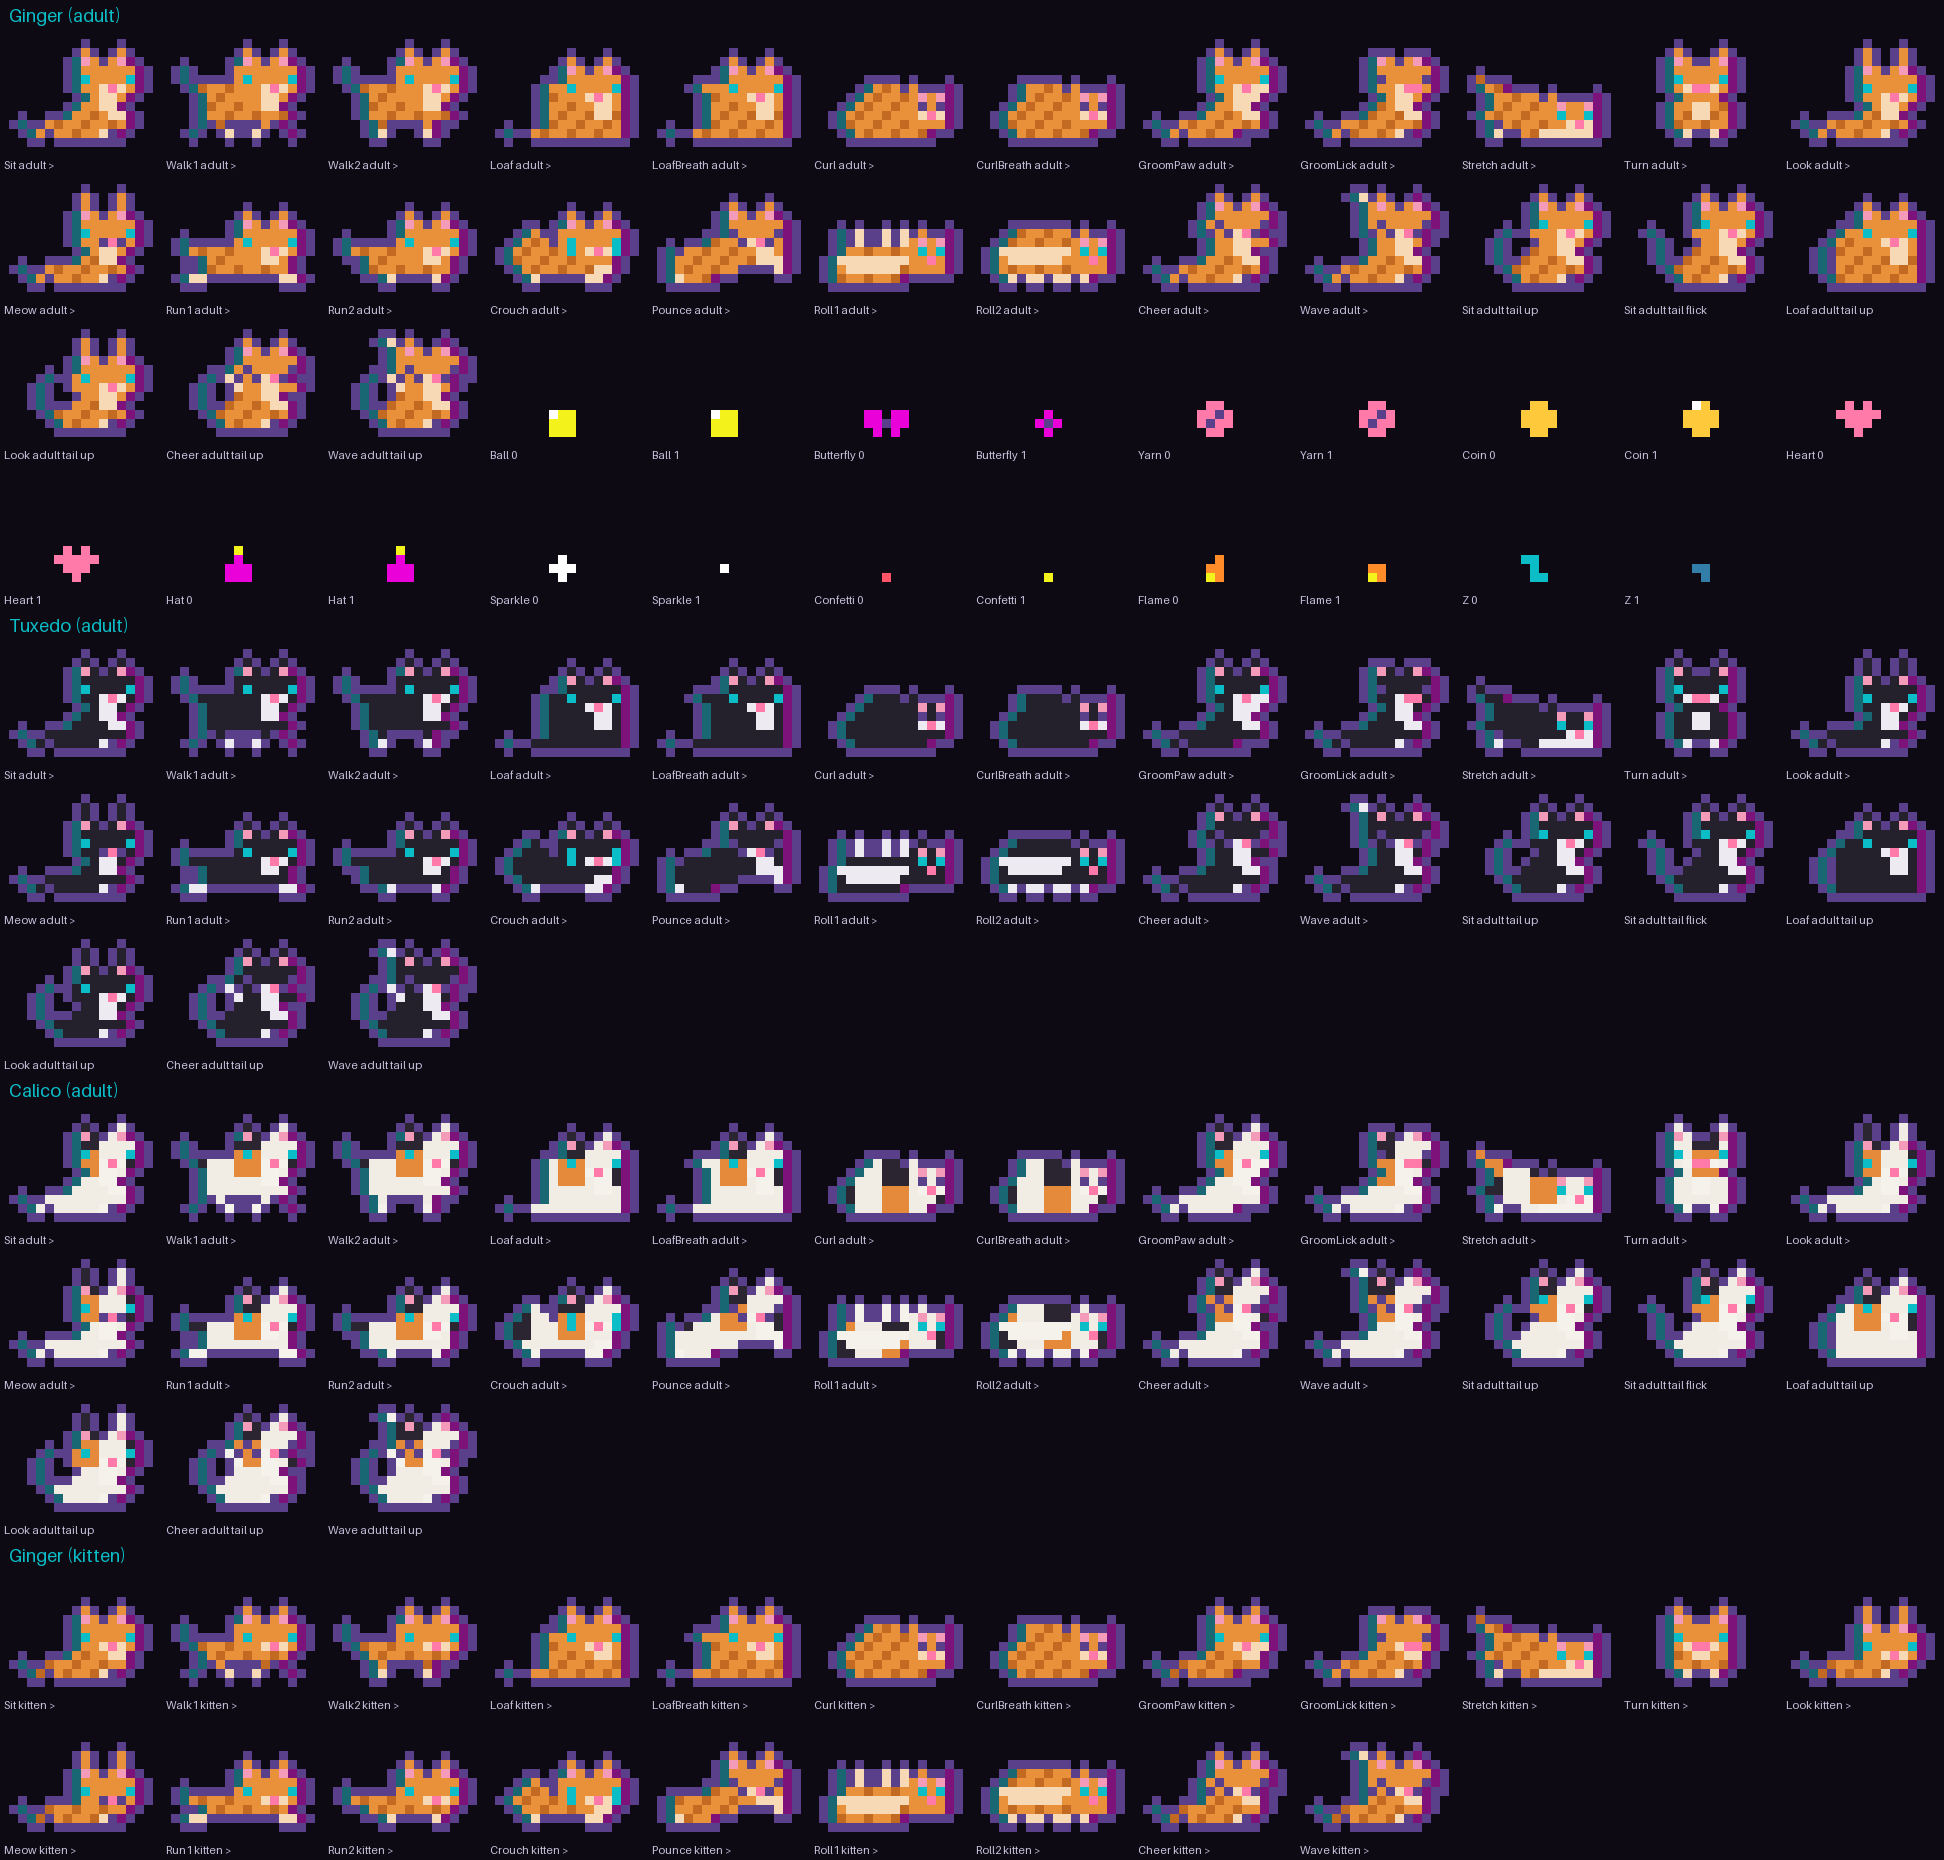
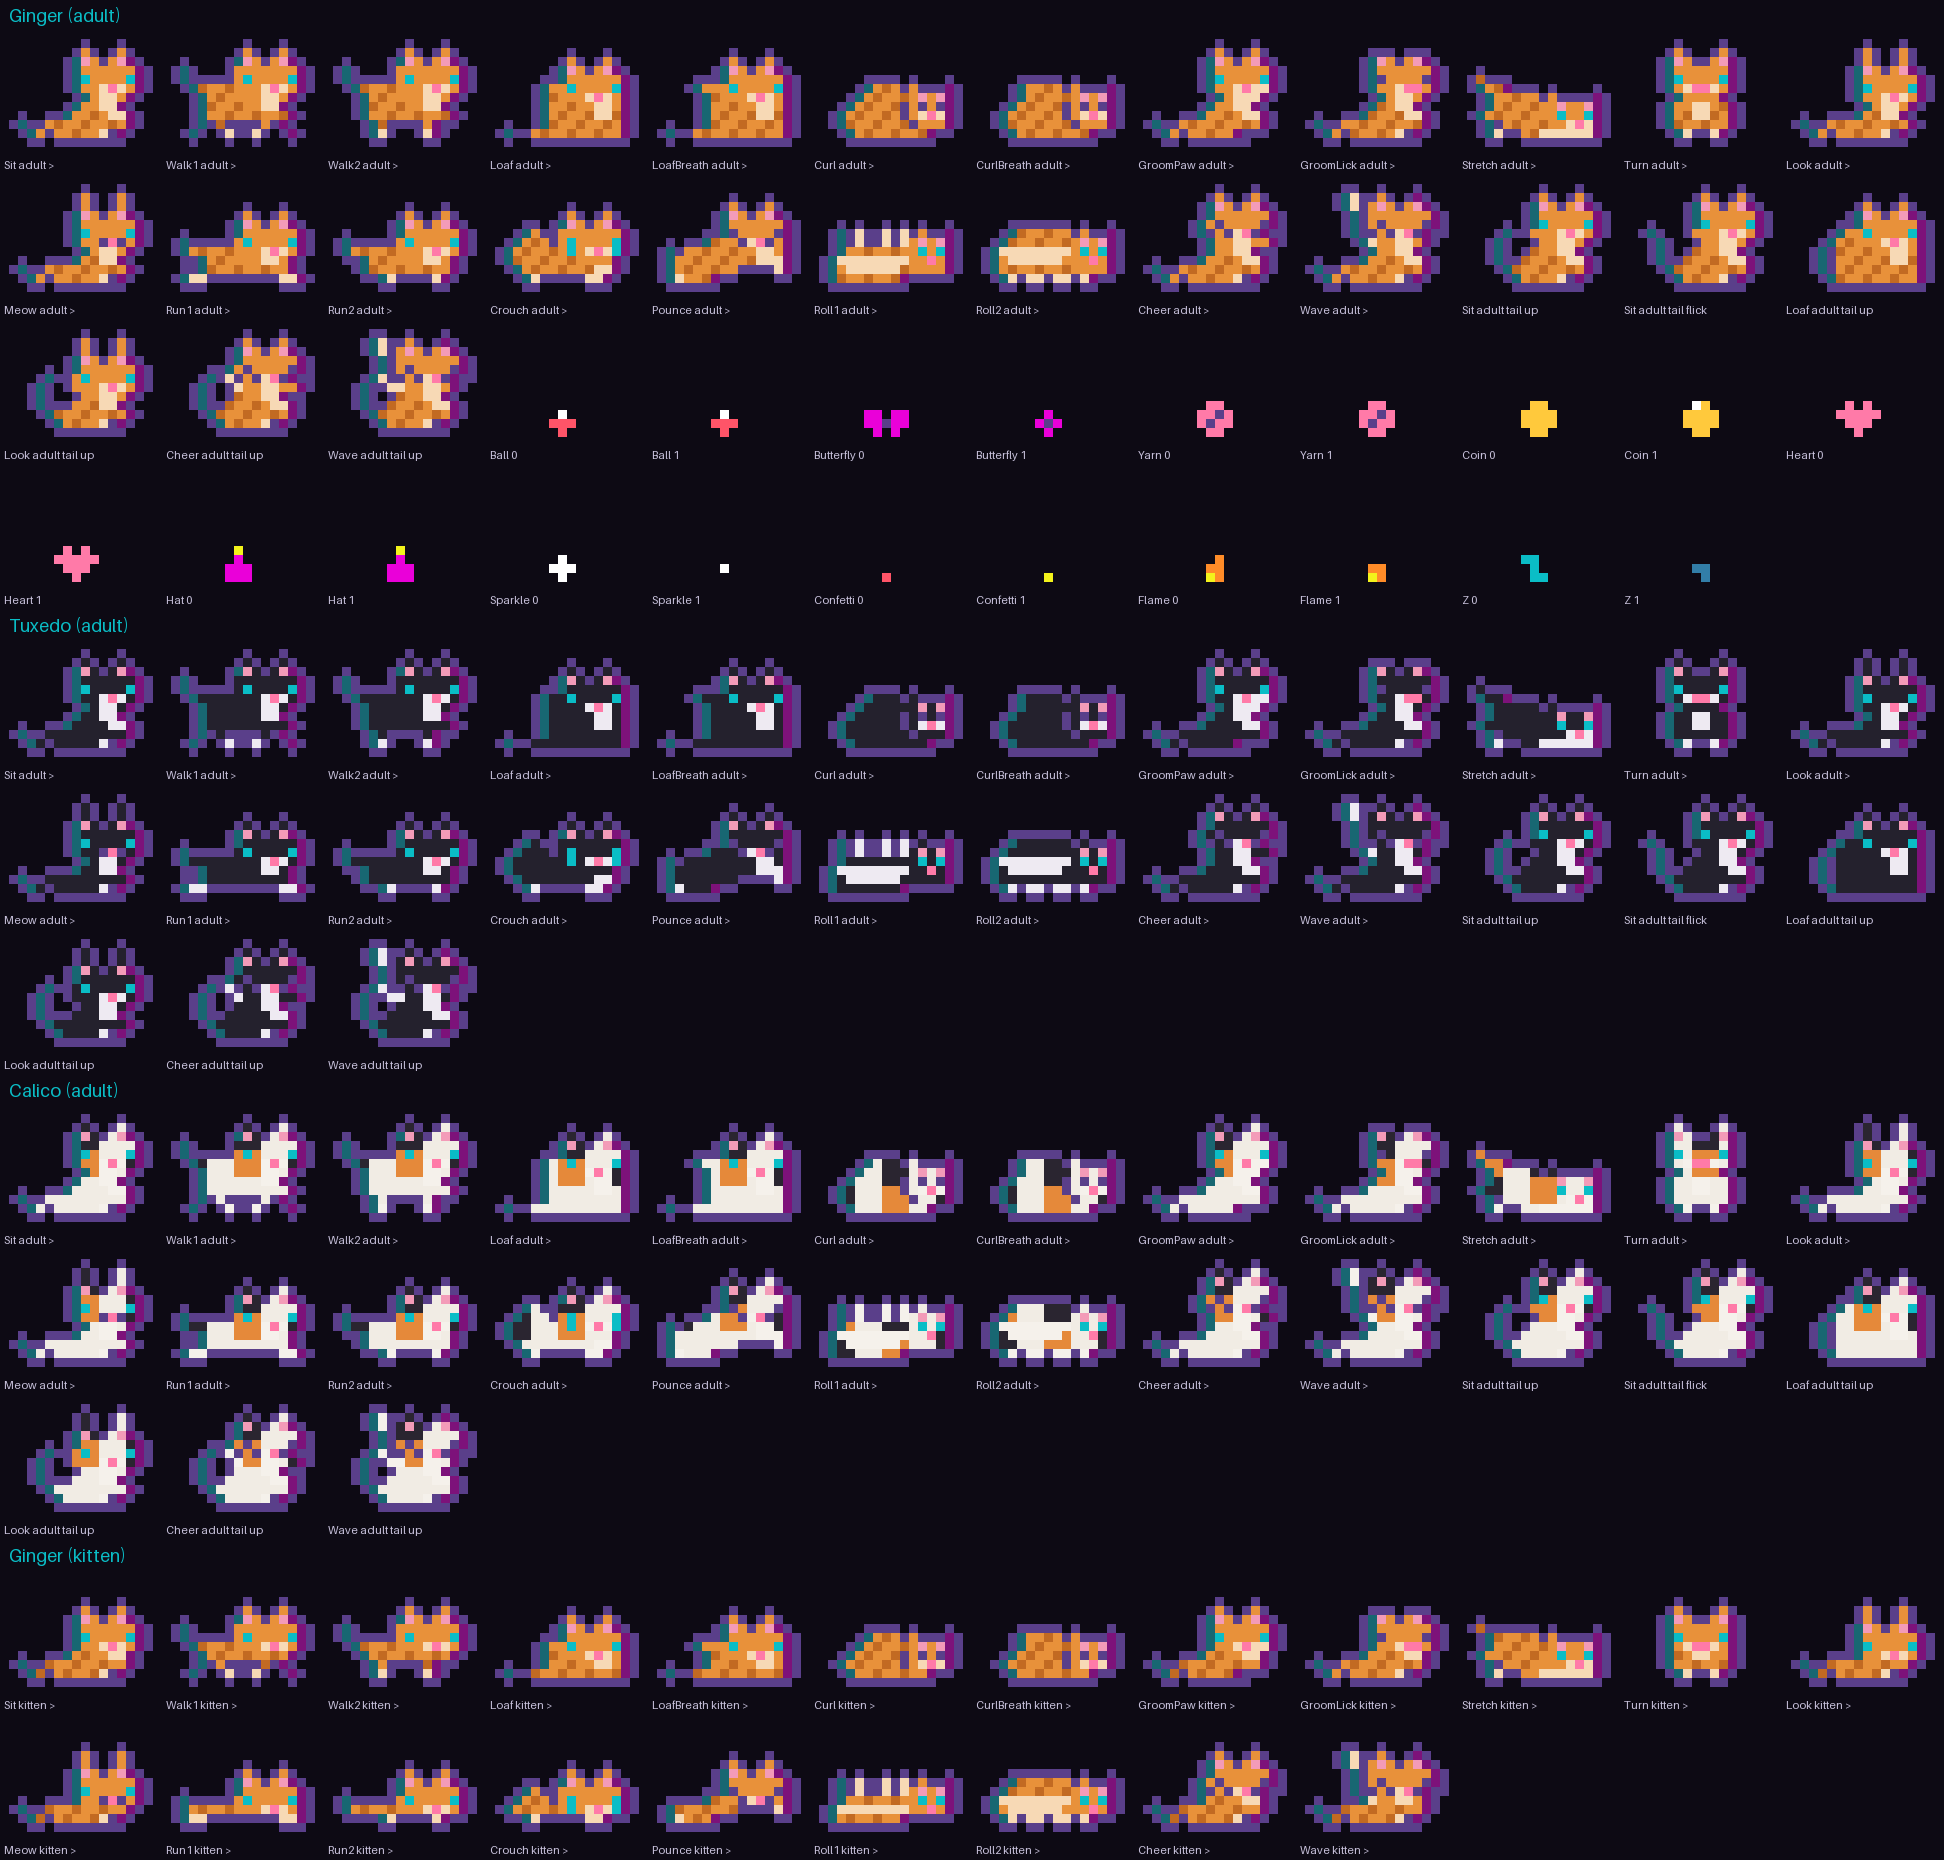
fix: clearer wave, round ball, curl head, kitten sizes

diff --git a/rust/src/px/art.rs b/rust/src/px/art.rs
@@ -153,7 +153,7 @@ const LOAF: [&str; 9] = [
     "....bbhhhlnlhh",
     "....bbbbhhllhh",
     "-....bbbbbbllbb",
-    "....bbbbbbbbbb",
+    "-....bbbbbbbbbb",
     "....*bbbbbbbbb",
 ];
 
@@ -166,7 +166,7 @@ const LOAF_BREATH: [&str; 9] = [
     "....bbhhhlnlhh",
     "....bbbbhhllhh",
     "-....bbbbbbllbb",
-    "....bbbbbbbbbb",
+    "-....bbbbbbbbbb",
     "....*bbbbbbbbb",
 ];
 
@@ -174,9 +174,9 @@ const LOAF_BREATH: [&str; 9] = [
 const CURL: [&str; 6] = [
     "....bbbb.r...r",
     "...bbbbbbrihir",
-    "..bbbbbbbhmhmh",
-    ".bbbbbbbbhlnlh",
-    ".bbbbbbbbbhhhh",
+    "..bbbbbbmhmhmh",
+    ".bbbbbbbmhlnlh",
+    "-.bbbbbbbbmhhhh",
     "..tttttttttt..",
 ];
 
@@ -184,16 +184,16 @@ const CURL: [&str; 6] = [
 const CURL_BREATH: [&str; 6] = [
     "...bbbbb.r...r",
     "...bbbbbbrihir",
-    "..bbbbbbbhmhmh",
-    ".bbbbbbbbhlnlh",
-    ".bbbbbbbbbhhhh",
+    "..bbbbbbmhmhmh",
+    ".bbbbbbbmhlnlh",
+    "-.bbbbbbbbmhhhh",
     "..tttttttttt..",
 ];
 
 /// Downward-dog: rear up, chest low, front legs reaching along the ground.
 const STRETCH: [&str; 7] = [
     "t.............",
-    "tbbb..........",
+    "-tbbb..........",
     ".bbbbbb.r....r",
     ".bbbbbbbrihhir",
     "bbbbbbbbhehheh",
@@ -251,7 +251,7 @@ const RUN1: [&str; 8] = [
     "t.....hehhhheh",
     "ttbbbbhhhlnlhh",
     "-..bbbbbhhllhh.",
-    "..bbbbbbbbbbb.",
+    "-..bbbbbbbbbbb.",
     "aaa........aaa",
 ];
 
@@ -263,7 +263,7 @@ const RUN2: [&str; 8] = [
     "t.....hehhhheh",
     "ttbbbbhhhlnlhh",
     "-..bbbbbhhllhh.",
-    "..bbbbbbbbbbb.",
+    "-..bbbbbbbbbbb.",
     "....aa....aa..",
 ];
 
@@ -275,7 +275,7 @@ const CROUCH: [&str; 8] = [
     ".bbbb.hehhhheh",
     "tbbbbbhehlnleh",
     "-tbbbbbbbbhhhh.",
-    ".bbbbbbbbbllb.",
+    "-.bbbbbbbbbllb.",
     "..aa.....aaa..",
 ];
 
@@ -287,7 +287,7 @@ const POUNCE: [&str; 9] = [
     "......hmhhhhmh",
     "....bbhhmlnmhh",
     "-t.bbbbbbhhllhh",
-    "tbbbbbbbbbllaa",
+    "-tbbbbbbbbbllaa",
     "tbbbbbbb....aa",
     "aabbbb........",
 ];
@@ -298,7 +298,7 @@ const ROLL1: [&str; 6] = [
     ".a.a..a.arihir",
     ".bbbbbbbbheheh",
     "bllllllllhhnhh",
-    "bbllllllbhhhhh",
+    "-bbllllllbhhhhh",
     "tbbbbbbbb.....",
 ];
 
@@ -308,7 +308,7 @@ const ROLL2: [&str; 6] = [
     ".bbbbbbbbrihir",
     "bllllllllheheh",
     "bbllllllbhhnhh",
-    "tbbbbbbbbhhhhh",
+    "-tbbbbbbbbhhhhh",
     ".aa.aa.aa.aa..",
 ];
 
@@ -329,14 +329,14 @@ const CHEER: [&str; 10] = [
 
 /// Sit with `^^` eyes and one front paw waving beside the head.
 const WAVE: [&str; 10] = [
-    "....aa.r...r..",
-    ".....arir.rir.",
-    ".....ahhhhhhhh",
-    ".....ahmhhhhmh",
-    ".....amhmlnmhm",
-    "-......ahhllhh.",
+    "...aa..r...r..",
+    "...aa.rir.rir.",
+    "....a.hhhhhhhh",
+    "....a.hmhhhhmh",
+    "....a.mhmlnmhm",
+    ".....aahhllhh.",
     "-......bbbllb..",
-    ".....bbbbbllb.",
+    "-.....bbbbbllb.",
     "....*bbbbbbbb.",
     "....bbbbbama..",
 ];
@@ -414,21 +414,21 @@ fn grid(rows: &[&str], pal: &[(char, Rgb)]) -> PxSprite {
 /// No outline: props are drawn over the cat's ground and sky.
 pub(crate) fn prop(p: Prop, frame: u8) -> PxSprite {
     let second = frame % 2 == 1;
-    let (ball, wing, pink, gold, flame, z) = (colors::YELLOW, colors::PINK, pixel::NOSE, pixel::EPIC, ORANGE, pixel::NEON_CYAN);
+    let (yellow, wing, pink, gold, flame, z) = (colors::YELLOW, colors::PINK, pixel::NOSE, pixel::EPIC, ORANGE, pixel::NEON_CYAN);
     match (p, second) {
-        (Prop::Ball, _) => grid(&["wYY", "YYY", "YYY"], &[('w', pixel::WHITE), ('Y', ball)]),
+        (Prop::Ball, _) => grid(&[".w.", "RRR", ".R."], &[('w', pixel::WHITE), ('R', colors::RED)]),
         (Prop::Butterfly, false) => grid(&["MM.MM", "MMdMM", ".M.M."], &[('M', wing), ('d', OUTLINE)]),
         (Prop::Butterfly, true) => grid(&[".M.", "MdM", ".M."], &[('M', wing), ('d', OUTLINE)]),
         (Prop::Yarn, _) => grid(&[".PP.", "PPdP", "PdPP", ".PP."], &[('P', pink), ('d', OUTLINE)]),
         (Prop::Coin, false) => grid(&[".GG.", "GGGG", "GGGG", ".GG."], &[('G', gold)]),
         (Prop::Coin, true) => grid(&[".wG.", "GGGG", "GGGG", ".GG."], &[('G', gold), ('w', pixel::WHITE)]),
         (Prop::Heart, _) => grid(&[".H.H.", "HHHHH", ".HHH.", "..H.."], &[('H', pink)]),
-        (Prop::Hat, _) => grid(&[".Y.", ".M.", "MMM", "MMM"], &[('Y', ball), ('M', wing)]),
+        (Prop::Hat, _) => grid(&[".Y.", ".M.", "MMM", "MMM"], &[('Y', yellow), ('M', wing)]),
         (Prop::Sparkle, false) => grid(&[".W.", "WWW", ".W."], &[('W', pixel::WHITE)]),
         (Prop::Sparkle, true) => grid(&["...", ".W.", "..."], &[('W', pixel::WHITE)]),
         (Prop::Confetti, _) => PxSprite { w: 1, h: 1, px: vec![Some(colors::RAINBOW[frame as usize % colors::RAINBOW.len()])] },
-        (Prop::Flame, false) => grid(&[".O", "OO", "YO"], &[('O', flame), ('Y', ball)]),
-        (Prop::Flame, true) => grid(&["OO", "YO"], &[('O', flame), ('Y', ball)]),
+        (Prop::Flame, false) => grid(&[".O", "OO", "YO"], &[('O', flame), ('Y', yellow)]),
+        (Prop::Flame, true) => grid(&["OO", "YO"], &[('O', flame), ('Y', yellow)]),
         (Prop::Z, false) => grid(&["ZZ.", ".Z.", ".ZZ"], &[('Z', z)]),
         (Prop::Z, true) => grid(&["ZZ", ".Z"], &[('Z', pixel::mix(z, OUTLINE, 0.5))]),
     }
@@ -525,6 +525,14 @@ mod tests {
         assert_eq!(stage_rows(m, "kitten").len(), 8);
         assert_eq!(stage_rows(m, "elder"), stage_rows(m, "adult"));
         assert!(stage_rows(m, "kitten").iter().all(|r| !r.starts_with('-')));
+    }
+
+    #[test]
+    fn kittens_are_smaller_than_adults() {
+        for p in ALL_POSES {
+            let m = pose_map(p);
+            assert!(stage_rows(m, "kitten").len() < stage_rows(m, "adult").len(), "{p:?}");
+        }
     }
 
     #[test]
